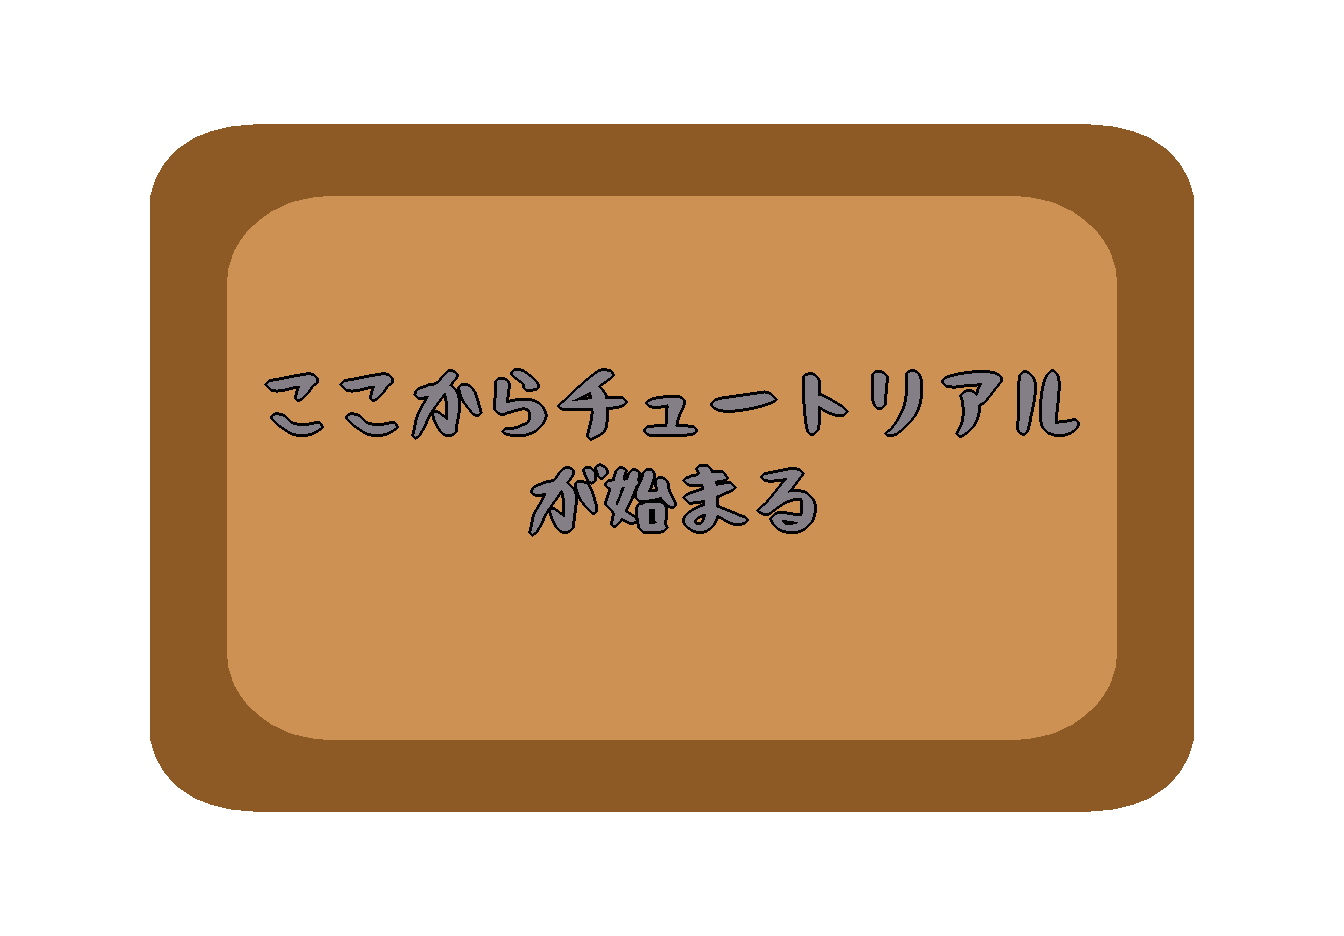
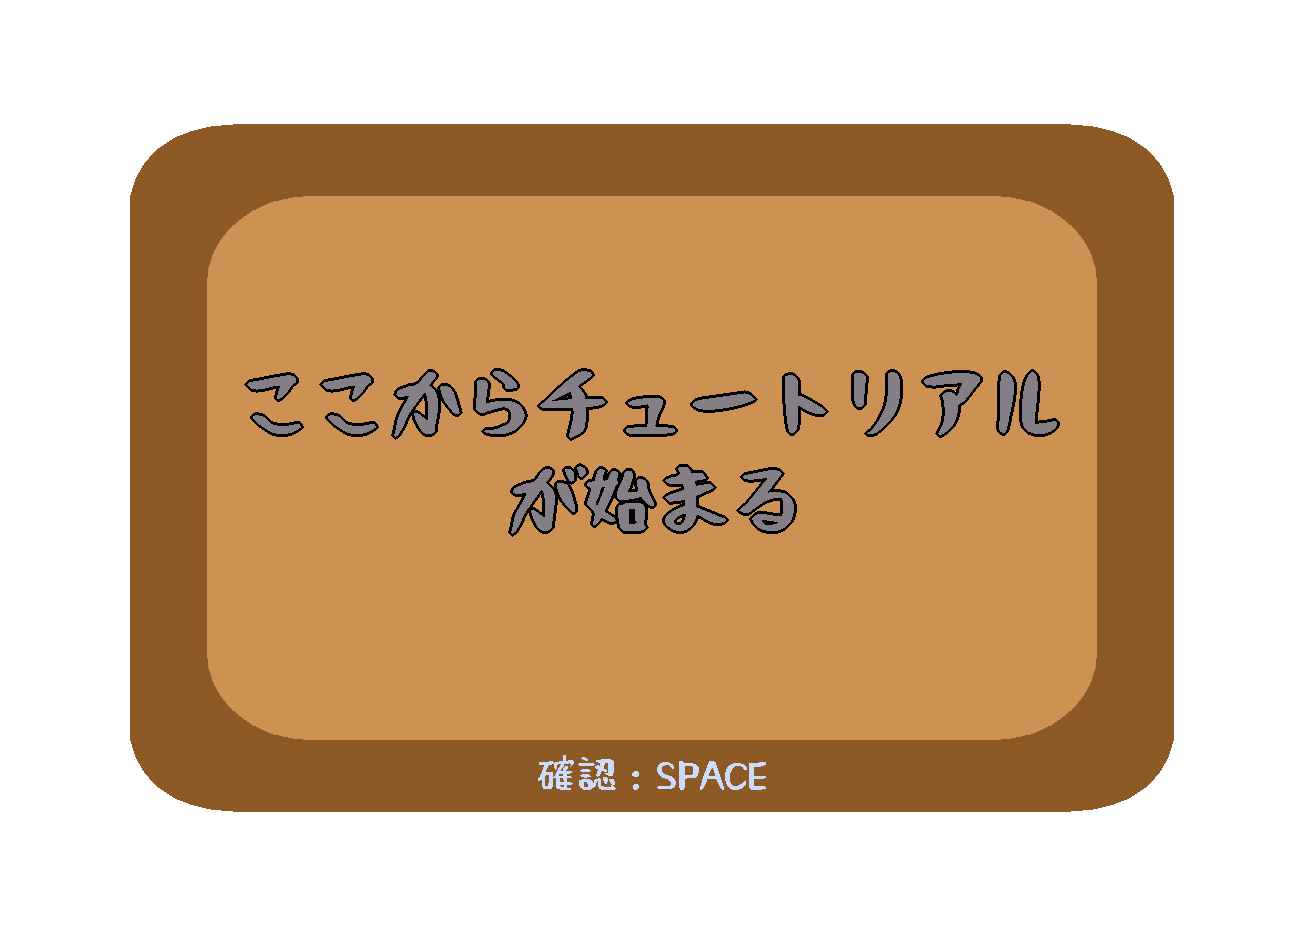
save

diff --git a/BasicTutorialScene.cpp b/BasicTutorialScene.cpp
@@ -27,6 +27,9 @@ void BasicTutorialScene::Initialize()
 	fade_->Start(Status::FadeIn, duration_);
 #pragma endregion
 
+	// Text
+	A = 0;
+	color= (R << 24) | (G << 16) | (B << 8) | A;	// "|" == or (for bit calculation)
 	// Background
 	background_ = new Background;
 	background_->Initialize(backgroundHandle_);
@@ -41,7 +44,7 @@ void BasicTutorialScene::Initialize()
 	}
 	// Player
 	player_ = new Player;
-	player_->Initialize({ 640.f,300.f - player_->GetSize().height }, scrollSpeed);
+	player_->Initialize({ 640.f,500.f - player_->GetSize().height }, scrollSpeed);
 
 	// Normal Block
 	blocks_.resize(kBlockNum);
@@ -116,6 +119,18 @@ void BasicTutorialScene::Update()
 		fade_->Update();
 		break;
 
+	case Phase::kTextExplanation:
+		color = (R << 24) | (G << 16) | (B << 8) | A;
+		if (isPage[0] && A < 255) {
+			A += 4;
+			if (A >= 255) { A = 255; }
+		}
+		if (Input::GetInstance()->TriggerKey(DIK_SPACE)) {
+			isPage[1] = true; 
+			isPage[0] = false;
+		}
+		break;
+
 	case BasicTutorialScene::Phase::kPlay:
 		// Player
 		player_->Update();
@@ -184,12 +199,58 @@ void BasicTutorialScene::Draw()
 
 	switch (phase_)
 	{
-	case BasicTutorialScene::Phase::kFadeIn:
+	case Phase::kFadeIn:
 		// Fade
 		fade_->Draw();
+		break;
+
+	case Phase::kTextExplanation:
+		for (int i = 0; i < kPageNum; i++) {
+			if (isPage[i]) {
+				Novice::DrawSprite(int(kBlockSize * 3), int(kBlockSize * 2),pageHandle[i], 1.f, 1.f, 0, color);
+			}
+		}
 
 		break;
-	case BasicTutorialScene::Phase::kPlay:
+
+	case Phase::kPlay:
+		break;
+	}
+}
+
+void BasicTutorialScene::ChangePhase()
+{
+	switch (phase_)
+	{
+	case Phase::kFadeIn:
+		if (fade_->IsFinished()) { phase_ = Phase::kTextExplanation; }
+		break;
+
+	case Phase::kTextExplanation:
+		if (isFinishedTutor) { phase_ = Phase::kPlay; }
+		break;
+
+	case Phase::kPlay:
+		if (Input::GetInstance()->TriggerKey(DIK_C))
+		{
+			fade_->Start(Status::FadeOut, duration_);
+			phase_ = Phase::kFadeOut;
+		}
+		if (player_->IsDead()) { phase_ = Phase::kDeath; }
+		break;
+
+	case Phase::kDeath:
+		phase_ = Phase::kFadeOut;
+		break;
+	case Phase::kStageClear:
+		break;
+	case Phase::kFadeOut:
+		if (fade_->IsFinished() && !player_->IsDead()) {
+			sceneNo = STAGE;
+		}
+		else if (fade_->IsFinished() && player_->IsDead()) {
+			Initialize();
+		}
 		break;
 	}
 }
@@ -261,47 +322,9 @@ void BasicTutorialScene::CheckAllCollision()
 		{
 			blocks_[i]->SetIsTouched(false); //not on top of the block anymore
 			blocks_[i]->SetStartShake(false);
-
 		}
 		++i; // Increment if no collision or block was not removed
 	}
 
 #pragma endregion
-}
-
-void BasicTutorialScene::ChangePhase()
-{
-	switch (phase_)
-	{
-	case BasicTutorialScene::Phase::kFadeIn:
-		if (fade_->IsFinished()) { phase_ = Phase::kPlay; }
-		break;
-
-	case Phase::kTextExplanation:
-
-		break;
-
-	case BasicTutorialScene::Phase::kPlay:
-		if (Input::GetInstance()->TriggerKey(DIK_C))
-		{
-			fade_->Start(Status::FadeOut, duration_);
-			phase_ = Phase::kFadeOut;
-		}
-		if (player_->IsDead()) { phase_ = Phase::kDeath; }
-		break;
-
-	case BasicTutorialScene::Phase::kDeath:
-		phase_ = Phase::kFadeOut;
-		break;
-	case BasicTutorialScene::Phase::kStageClear:
-		break;
-	case BasicTutorialScene::Phase::kFadeOut:
-		if (fade_->IsFinished() && !player_->IsDead()) {
-			sceneNo = STAGE;
-		}
-		else if (fade_->IsFinished() && player_->IsDead()) {
-			Initialize();
-		}
-		break;
-	}
 }

diff --git a/BasicTutorialScene.h b/BasicTutorialScene.h
@@ -19,11 +19,11 @@ public:
 	void Initialize() override;
 	void Update() override;
 	void Draw() override;
+	void ChangePhase();
 
-	void DeleteBlocks(); 
+	void DeleteBlocks();
 
 	void CheckAllCollision();
-	void ChangePhase();
 
 private:
 	enum class Phase
@@ -37,9 +37,23 @@ private:
 	};
 	Phase phase_;
 
-	// Text Tutorial
-	uint32_t p1 = Novice::LoadTexture("./Resources/Tutorial/p1.png");
-	uint32_t p2 = Novice::LoadTexture("./Resources/Tutorial/p2.png");
+	// Text Draw Timer
+	static inline const uint8_t kPageNum = 2;
+	bool isPage[kPageNum] = { 1,0 };
+	bool isStartAlpha = false;
+	bool isFinishedTutor = false;
+	// COLOR
+	uint16_t alphaTimer = 0;
+	uint32_t R = 255;
+	uint32_t G = 255;
+	uint32_t B = 255;
+	uint32_t A = 0;
+	uint32_t color;
+	// Text Handle
+	int pageHandle[kPageNum] = {
+		Novice::LoadTexture("./Resources/Tutorial/p1.png"),
+		Novice::LoadTexture("./Resources/Tutorial/p2.png")
+	};
 
 	// Fade
 	Fade* fade_ = nullptr;
